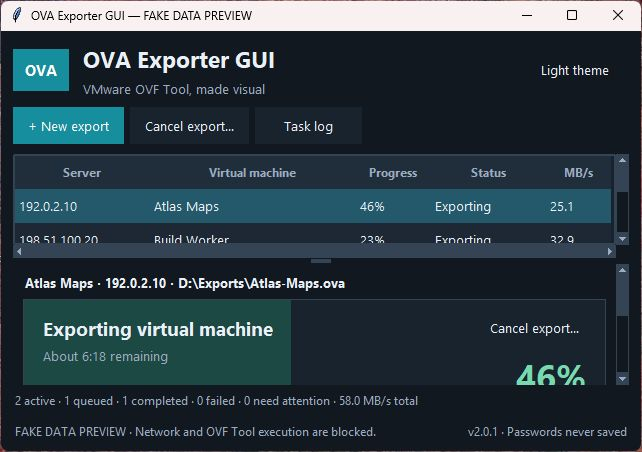
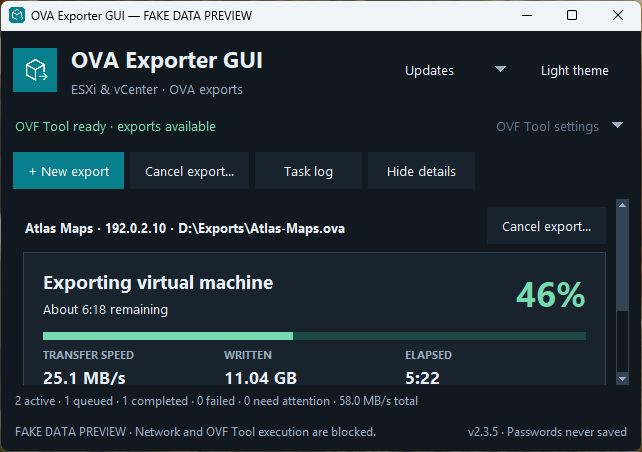
Refresh 2.3.5 screenshots and documentation; fix draft release lookup

diff --git a/tools/release_artifacts.py b/tools/release_artifacts.py
@@ -141,6 +141,15 @@ def validate_publish_choice(tag, commit, confirmed):
         raise ValueError('Publishing requires explicit confirmation, the current app tag and an exact commit.')
 
 
+def reviewed_draft(rows, tag, commit):
+    """Drafts require the authenticated release list, not the published-tag API."""
+    matches = [row for row in rows if isinstance(row, dict) and row.get('tag_name') == tag] if isinstance(rows, list) else []
+    if (len(matches) != 1 or matches[0].get('draft') is not True
+            or matches[0].get('target_commitish') != commit):
+        raise ValueError('This must be a new draft targeting the exact reviewed commit.')
+    return matches[0]
+
+
 def publish_reviewed():
     if (os.environ.get('GITHUB_ACTIONS') != 'true'
             or os.environ.get('GITHUB_EVENT_NAME') != 'workflow_dispatch'
@@ -156,9 +165,9 @@ def publish_reviewed():
         return json.loads(subprocess.check_output(['gh', 'api', f'repos/{repository}/{path}'], text=True))
     if api('git/ref/heads/main')['object']['sha'] != commit:
         raise ValueError('Main moved after this workflow started. Rebuild/review the newer source.')
-    release = api('releases/tags/' + tag)
-    if release.get('draft') is not True or release.get('target_commitish') != commit:
-        raise ValueError('This must be a new draft targeting the exact reviewed commit.')
+    # GET releases/tags/{tag} does not find an unpublished draft without a tag.
+    # Fail closed if the exact draft is not among the 100 most recent releases.
+    reviewed_draft(api('releases?per_page=100'), tag, commit)
     directory = Path(tempfile.mkdtemp(prefix='ova-reviewed-release-', dir=os.environ['RUNNER_TEMP']))
     command = ['gh', 'release', 'download', tag, '--repo', repository, '--dir', str(directory)]
     for name in (*expected_files(VERSION), 'build-manifest.json'):
@@ -175,7 +184,8 @@ def publish_reviewed():
     if checks.get('frozen') != 'passed' or checks.get('source') != 'passed':
         raise ValueError('Required build evidence is missing.')
     if any(native.get(name) != 'passed' for name in
-           ('fresh_install', 'parent_exit_wait', 'upgrade', 'reopen', 'uninstall')):
+           ('fresh_install', 'fresh_launch_self_test', 'fresh_uninstall',
+            'parent_exit_wait', 'upgrade', 'reopen', 'uninstall')):
         raise ValueError('Installer validation did not pass.')
     run_id = str(manifest.get('run_id', ''))
     if not run_id.isdigit():

diff --git a/tests/test_release_pipeline.py b/tests/test_release_pipeline.py
@@ -11,12 +11,31 @@ from unittest.mock import Mock, patch
 from tools.ci_installer_check import ensure_runner
 from tools import ci_installer_check
 from tools.release_artifacts import (create_draft, expected_files, publish_reviewed,
-                                     validate_publish_choice, verify_files, verify_source)
+                                     reviewed_draft, validate_publish_choice, verify_files, verify_source)
 from metadata import VERSION
 from tools.runtime_licenses import license_urls, runtime_versions
 
 
 class ReleasePipelineTests(unittest.TestCase):
+    def test_reviewed_draft_uses_exact_tag_commit_and_explicit_draft_state(self):
+        draft = dict(tag_name='v' + VERSION, draft=True, target_commitish='a' * 40)
+        self.assertIs(reviewed_draft([dict(tag_name='other'), draft], 'v' + VERSION, 'a' * 40), draft)
+        for rows in ([], {}, [draft, draft], [dict(draft, draft=False)],
+                     [dict(draft, draft='true')], [dict(draft, target_commitish='b' * 40)],
+                     [dict(draft, tag_name='v0.0.1')]):
+            with self.subTest(rows=rows), self.assertRaisesRegex(ValueError, 'new draft'):
+                reviewed_draft(rows, 'v' + VERSION, 'a' * 40)
+
+    def test_publish_looks_up_draft_through_authenticated_release_list(self):
+        responses = [json.dumps({'object': {'sha': 'a' * 40}}), '[]']
+        with patch.dict(os.environ, self.publish_environment(), clear=True), \
+                patch('tools.release_artifacts.subprocess.check_output', side_effect=responses) as api, \
+                patch('tools.release_artifacts.subprocess.run') as mutate:
+            with self.assertRaisesRegex(ValueError, 'new draft'):
+                publish_reviewed()
+        self.assertTrue(api.call_args.args[0][-1].endswith('/releases?per_page=100'))
+        mutate.assert_not_called()
+
     def test_runtime_version_probe_uses_tk_initialization_and_always_closes_it(self):
         root=Mock()
         root.tk.eval.side_effect=lambda command: {'info patchlevel': '8.6.17',

diff --git a/tools/package_source.py b/tools/package_source.py
@@ -26,7 +26,7 @@ EXTRA_FILES = APP_FILES+TEST_FILES+(
     'tools/preview_ui.py','tools/benchmark_ui.py','tools/package_source.py','tools/offline_tests.py',
     'tools/make_icons.py','tools/runtime_licenses.py','tools/build_windows.ps1','tools/check_update_installer.py',
     'tools/ci_compiler.ps1','tools/ci_installer_check.py','tools/release_artifacts.py',
-    'docs/ARCHITECTURE.md','docs/RELEASE_REVIEW.md','docs/UI_REVIEW.md','docs/QA_REVIEW.md','docs/SECURITY_REVIEW.md','docs/WINDOWS_INSTALLER.md','docs/RELEASING.md','docs/DEVOPS_PATH.md',
+    'docs/ARCHITECTURE.md','docs/RELEASE_REVIEW.md','docs/UI_REVIEW.md','docs/QA_REVIEW.md','docs/SECURITY_REVIEW.md','docs/REPOSITORY_REVIEW.md','docs/WINDOWS_INSTALLER.md','docs/RELEASING.md','docs/DEVOPS_PATH.md',
     '.github/ISSUE_TEMPLATE/bug_report.md','.github/PULL_REQUEST_TEMPLATE.md',
     '.github/workflows/offline-tests.yml','.github/workflows/release-build.yml','.github/workflows/publish-release.yml',
     'assets/logo.svg','assets/logo.png','assets/app.ico',

diff --git a/docs/REPOSITORY_REVIEW.md b/docs/REPOSITORY_REVIEW.md
@@ -1,0 +1,65 @@
+# Repository review — 2026-11-12
+
+Reviewed the application source, tests, installer/build helpers, GitHub workflows,
+README, contribution/security/license notices and all developer documents. The
+application remains version 2.3.5; this repository maintenance does not replace
+the published installer or announce a new app update.
+
+## Changes
+
+- Replaced all six screenshots with actual captures from the guarded 2.3.5
+  preview. Added the VM-selection image to the README gallery. Captures contain
+  invented names, documentation-only addresses, empty credential fields and
+  synthetic progress. No real server was contacted and no export was started.
+- Corrected obsolete installer-validation statements. The release's hosted
+  installer lifecycle passed; Windows 10, all end-user configurations and live
+  VMware operation remain unverified.
+- Clarified that users without the updater can install the current release
+  directly, without installing an intermediate version.
+- Updated the DevOps guide to describe both fresh-candidate installation and
+  the separate upgrade check.
+- Fixed the publish helper's draft lookup. The published-tag endpoint returned
+  404 for the unpublished 2.3.5 draft; the helper now uses the authenticated
+  release list and requires exactly one matching tag, explicit draft state and
+  exact target commit. Missing/duplicate/published/mismatched drafts fail closed.
+  The lookup considers the 100 most recent releases. Commit, hash, successful
+  build and explicit publish-confirmation checks remain in place.
+- The publish gate now also requires the recorded fresh installed-app startup
+  and fresh-uninstall checks, matching the build gate's lifecycle requirements.
+
+## Screenshot provenance
+
+Captured with the Windows computer-use tool from `tools/preview_ui.py`:
+
+| File | Preview argument |
+| --- | --- |
+| `images/dashboard-dark.jpg` | Default |
+| `images/dashboard-light.jpg` | `--light` |
+| `images/dashboard-compact.jpg` | `--compact` |
+| `images/new-export-dark.jpg` | `--wizard-connect` |
+| `images/vm-selection-dark.jpg` | `--wizard-selection`; selected the illustrative Atlas Maps row |
+| `images/tool-missing.jpg` | `--missing-tool` |
+
+The preview blocks sockets, external processes, persistent settings and VMware
+API construction. The forms are illustrative UI states, not authenticated server
+sessions. Preview windows were closed after capture. These are real UI captures,
+not generated mockups.
+
+## Verification and limits
+
+168 guarded offline tests pass locally, including exact draft lookup and rejection
+cases. Image decoding, local documentation targets, configured lint, source ZIP
+allowlisting/CRC/source matching and Python compilation are checked as part of
+this maintenance. GitHub's Python 3.10/3.14 and dependency-check results are
+recorded in the maintenance PR.
+
+No runtime dependency, VMware behavior, cancellation policy, credential policy,
+published installer, GitHub protection setting or release visibility was changed.
+The corrected publisher has offline regression coverage; a future authorized new
+release must exercise actual draft-to-public publication end to end. The already
+public 2.3.5 release is not republished to test automation.
+
+Remaining priorities: independent publisher signing/provenance, main-branch
+protection, dependency maintenance and an explicitly authorized disposable VMware
+integration lab. See [security findings](SECURITY_REVIEW.md),
+[QA scope](QA_REVIEW.md) and [release evidence](https://github.com/abdomitov/ova-exporter-gui/actions/runs/43019403203).

diff --git a/README.md b/README.md
@@ -36,12 +36,14 @@ This release supports exporting to a local OVA. It does not implement VM deploym
 
 ## Screenshots
 
-All screenshots use invented VM names and documentation-only server addresses.
+Captured from the **2.3.5 UI** using the guarded fake-data preview. VM names,
+addresses and progress are illustrative; no real infrastructure or credentials
+appear in these images.
 
 ![Dark dashboard showing OVA export progress and transfer speed history](docs/images/dashboard-dark.jpg)
 
 <details>
-<summary>Light theme, compact layout and connection form</summary>
+<summary>Light theme, compact layout, connection and VM selection</summary>
 
 ![Missing OVF Tool status with custom-location and detection controls](docs/images/tool-missing.jpg)
 
@@ -50,6 +52,8 @@ All screenshots use invented VM names and documentation-only server addresses.
 ![Compact dashboard at 640 by 420 pixels](docs/images/dashboard-compact.jpg)
 
 ![Connection form with a masked-by-default password input](docs/images/new-export-dark.jpg)
+
+![Powered-off VM filter, selected example VM and OVA destination](docs/images/vm-selection-dark.jpg)
 
 </details>
 
@@ -85,8 +89,8 @@ under the app's local data directory. A checksum is an integrity check, not a
 publisher signature: installers remain unsigned. A downloaded installer is checked
 again before launch. VMware OVF Tool is updated separately by the user.
 
-**Existing 2.2.0 and earlier users must install 2.3.0 manually once** to receive
-this functionality. Checks currently inspect the 30 most recent published GitHub
+**Users on 2.2.0 and earlier should install the current release manually once** to
+receive this functionality; no intermediate version is required. Checks currently inspect the 30 most recent published GitHub
 releases and offer only releases with a complete Windows installer/checksum pair.
 
 **Maintainers:** no separate update server is required. A source push alone does
@@ -96,7 +100,7 @@ for the build, release and installed-app validation steps.
 
 ## Requirements
 
-- Windows 10/11 x64 is the target platform. Clean-machine Windows 10/11 installer testing remains unverified.
+- Windows 10/11 x64 is the target platform. Fresh install, upgrade and uninstall passed on a disposable GitHub-hosted Windows runner. Windows 10 and all end-user configurations remain unverified.
 - Source users need Python 3.10 or newer with Tkinter. The Windows installer includes Python/Tk; users of that installer do not need a separate Python installation. No third-party Python packages are required to run the source app.
 - [VMware OVF Tool](https://developer.broadcom.com/tools/open-virtualization-format-ovf-tool/latest/), installed separately under its own license.
 - Access to the required VMware management and export endpoints and an account permitted to read inventory and export the chosen VM.
@@ -197,6 +201,9 @@ Read [CONTRIBUTING.md](CONTRIBUTING.md) and [the architecture notes](docs/ARCHIT
 
 Run `py -3 tools/offline_tests.py` for guarded offline regressions. See the
 [release review](docs/RELEASE_REVIEW.md) for findings, fixes and unverified lab checks.
+The [security review](docs/SECURITY_REVIEW.md) describes the tested attack fixtures
+and remaining risks; the [repository review](docs/REPOSITORY_REVIEW.md) records
+the current documentation, screenshot and release-automation checks.
 
 An isolated visual preview is available without credentials or VMware binaries:
 

diff --git a/docs/WINDOWS_INSTALLER.md b/docs/WINDOWS_INSTALLER.md
@@ -16,8 +16,10 @@ The custom executable location is encrypted and remembered; no environment varia
 or restart is required. A file-presence check is not a full compatibility test.
 
 This installer is unsigned. Windows may display an unknown-publisher/SmartScreen
-warning. Code signing and clean Windows 10/11 installation/uninstallation tests
-remain release tasks; do not advertise this build as certified or warning-free.
+warning. Version 2.3.5 passed fresh install, startup, upgrade, reopen and uninstall
+on a disposable GitHub-hosted Windows runner. Windows 10 and all end-user
+configurations remain unverified; this is not certification. Code signing
+remains a future release task.
 
 Version 2.3.0 includes update notifications and user-confirmed installer downloads.
 Use the Updates menu for a manual check or to disable automatic startup checks.
@@ -27,7 +29,8 @@ are restricted to the project's GitHub release assets over HTTPS, with size and
 SHA-256 verification (repeated before launching setup). Installers remain unsigned;
 this does not establish publisher identity or protect against a compromised release
 account. The updater never downloads VMware OVF Tool or restarts host services.
-Users on older app versions must install 2.3.0 manually to obtain the updater.
+Users on 2.2.0 and earlier can install the current release manually to obtain
+the updater; installing an intermediate version is unnecessary.
 
 Maintainers publish higher-version releases through GitHub; see
 [Publishing updates](RELEASING.md). From an installed 2.3.2 app, the Update button
@@ -39,7 +42,7 @@ other processes are not closed or force-stopped. Shortcut selections are reused.
 Update mode requires an existing executable/uninstaller in that folder and a
 valid parent PID before copying files. Source/portable copies keep the normal UI.
 
-The old 2.3.0/2.3.1 updater still opens the full wizard once to obtain 2.3.2. The
+The old 2.3.0/2.3.1 updater still opens the full wizard once to obtain a current release. The
 streamlined behavior applies to updates initiated by the newer app. Manually
 opening the installer for an initial installation keeps its normal wizard.
 

diff --git a/docs/DEVOPS_PATH.md b/docs/DEVOPS_PATH.md
@@ -74,7 +74,7 @@ Replace `RUN_ID` with the actual numeric run ID. The workflow:
 3. Downloads a fixed Inno Setup version, verifies its pinned SHA-256 and publisher signature, and provisions it on the disposable runner.
 4. Builds the app, runtime license texts and Windows installer.
 5. Runs the frozen app with its fake-only self-test.
-6. Installs the pinned public 2.3.1 baseline into a new CI directory, runs the actual candidate update, verifies the replaced app and reopen, then uninstalls it. No VMware credentials or servers are used. The script refuses local or self-hosted runners.
+6. Installs the candidate into a fresh CI directory, checks installed startup and uninstalls it. Separately installs the pinned public 2.3.1 baseline, runs the actual candidate update, verifies parent-exit waiting, the replaced app and reopening, then uninstalls it. No VMware credentials or servers are used. The script refuses local or self-hosted runners.
 7. Verifies the exact source/archive files, checksums and check reports; writes `build-manifest.json` with the commit, workflow run and runtime versions.
 8. Keeps the small release files and diagnostic reports as artifacts for seven days.
 

diff --git a/docs/RELEASING.md b/docs/RELEASING.md
@@ -12,6 +12,11 @@ After reviewing that draft and its exact build commit, **Publish reviewed releas
 can publish it only with the matching tag, current-main commit and explicit
 `confirm_publish=true`. It rechecks the source/files, build manifest and successful
 build run. This is a manual approval boundary; nothing auto-publishes on a push.
+Draft lookup uses the authenticated release list and requires an exact tag,
+draft flag and target commit. If the draft is not among the 100 most recent
+releases, publication fails closed. Version 2.3.5 used the documented manual
+path after the old published-tag lookup returned 404; its build and installer
+checks passed. The lookup regression is covered by offline tests.
 See [the DevOps learning path](DEVOPS_PATH.md) for commands, scope and downsides.
 The manual commands below remain useful for understanding and recovery.
 
